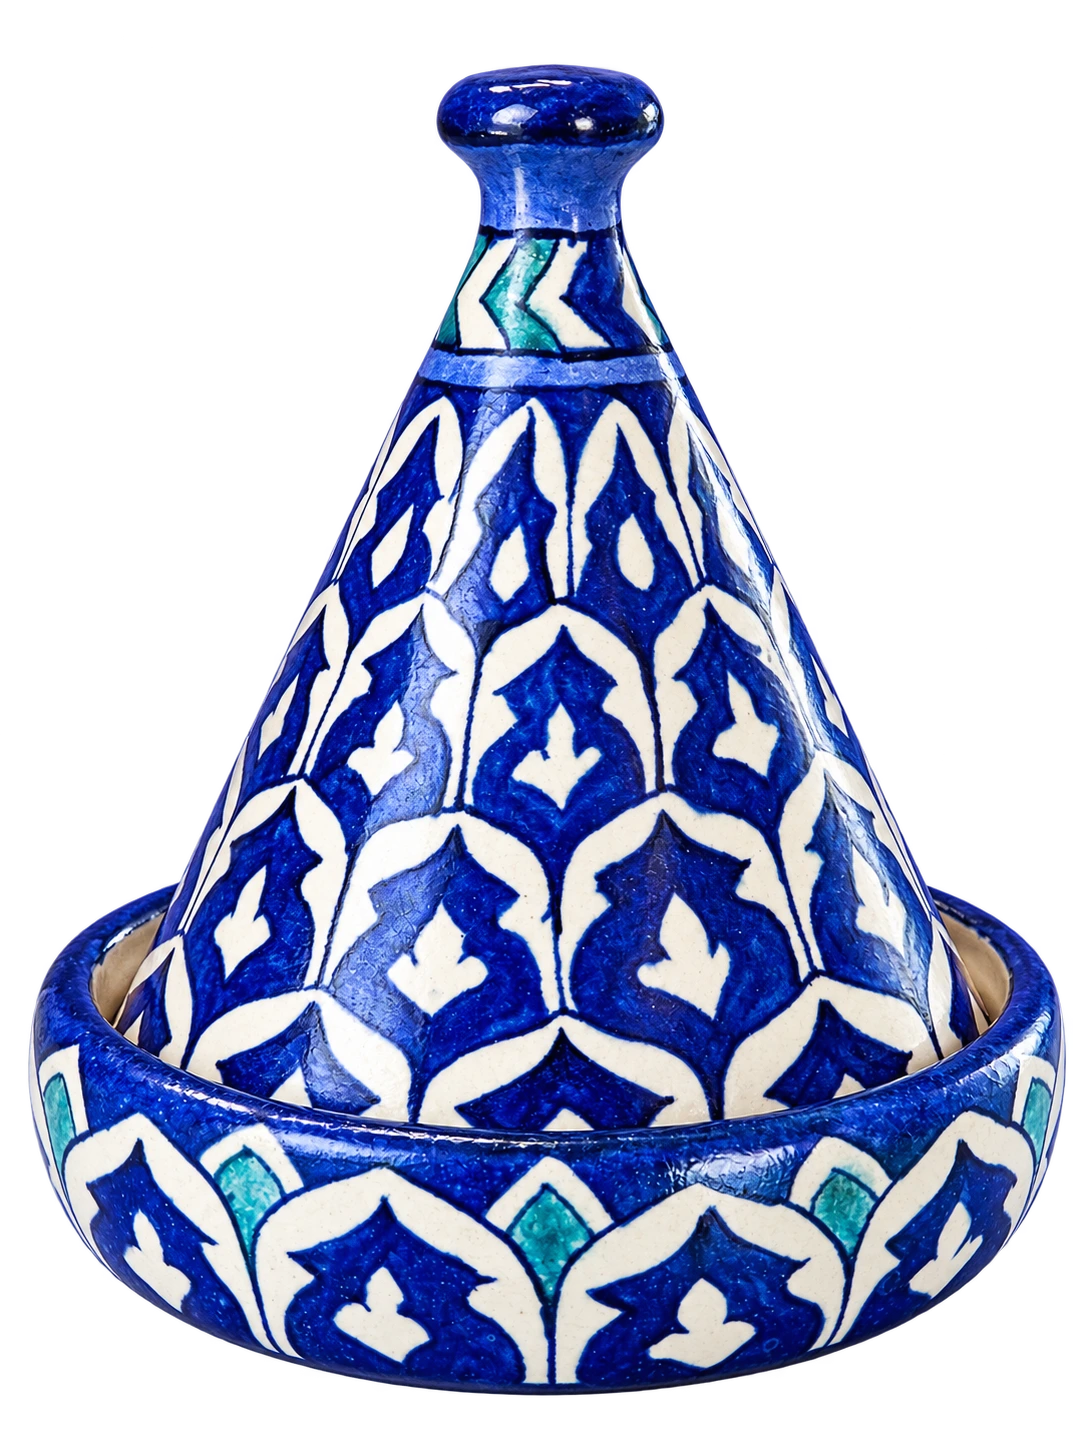
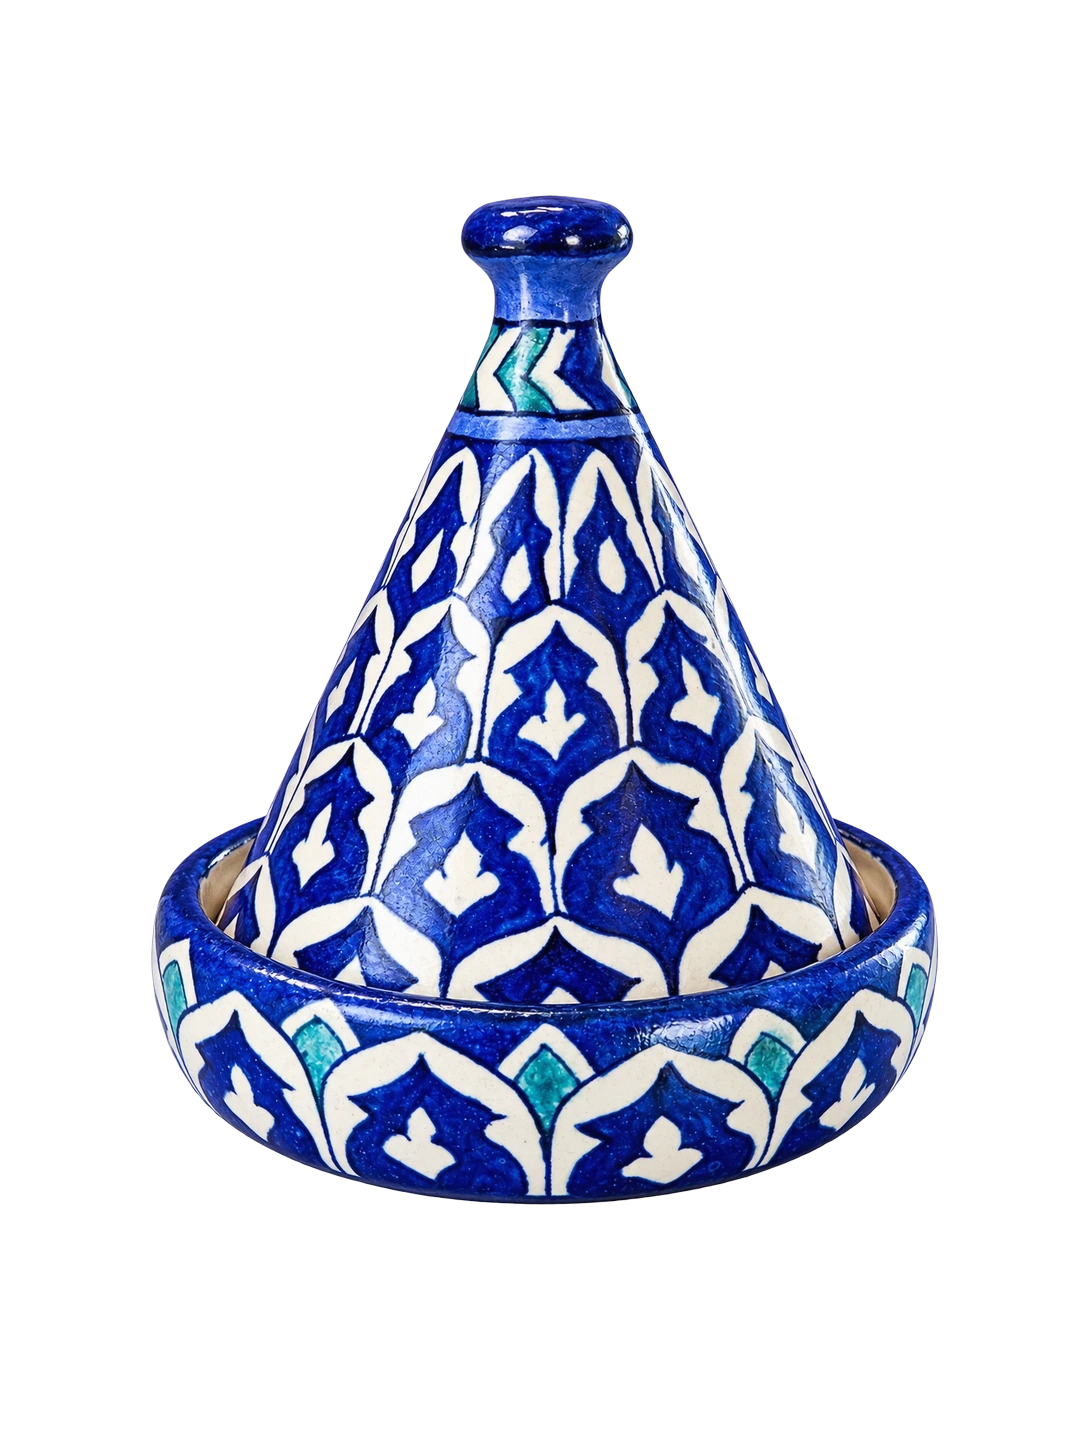
Update Dastkari Promise section and calibrate product card scaling and shadows

diff --git a/src/components/PromiseCards.tsx b/src/components/PromiseCards.tsx
@@ -1,106 +1,36 @@
-import React, { useEffect, useRef, useState } from 'react';
-import { Truck, Moon, ShieldCheck, Leaf } from 'lucide-react';
+import React from 'react';
+import { Hand, Paintbrush, Flower2, HeartHandshake } from 'lucide-react';
 
 export const PromiseCards: React.FC = () => {
-  const containerRef = useRef<HTMLDivElement>(null);
-  const [hasAnimated, setHasAnimated] = useState(false);
-
-  const [val1, setVal1] = useState(0);
-  const [val2, setVal2] = useState(0);
-  const [val3, setVal3] = useState(0);
-  const [val4, setVal4] = useState(0);
-
-  useEffect(() => {
-    const handleScroll = () => {
-      if (!containerRef.current || hasAnimated) return;
-      const rect = containerRef.current.getBoundingClientRect();
-      if (rect.top < window.innerHeight * 0.8) {
-        setHasAnimated(true);
-
-        // Animate 48h
-        let c1 = 0;
-        const t1 = setInterval(() => {
-          c1 += 2;
-          if (c1 >= 48) {
-            setVal1(48);
-            clearInterval(t1);
-          } else setVal1(c1);
-        }, 25);
-
-        // Animate 30 nights
-        let c2 = 0;
-        const t2 = setInterval(() => {
-          c2 += 1;
-          if (c2 >= 30) {
-            setVal2(30);
-            clearInterval(t2);
-          } else setVal2(c2);
-        }, 30);
-
-        // Animate 10 years
-        let c3 = 0;
-        const t3 = setInterval(() => {
-          c3 += 1;
-          if (c3 >= 10) {
-            setVal3(10);
-            clearInterval(t3);
-          } else setVal3(c3);
-        }, 50);
-
-        // Animate 100%
-        let c4 = 0;
-        const t4 = setInterval(() => {
-          c4 += 5;
-          if (c4 >= 100) {
-            setVal4(100);
-            clearInterval(t4);
-          } else setVal4(c4);
-        }, 20);
-      }
-    };
-
-    window.addEventListener('scroll', handleScroll, { passive: true });
-    handleScroll();
-    return () => window.removeEventListener('scroll', handleScroll);
-  }, [hasAnimated]);
-
   const cards = [
     {
       tint: 'var(--sky)',
-      icon: <Truck size={18} color="var(--main-ink)" />,
-      val: hasAnimated ? val1 : 48,
-      unit: 'h',
-      title: 'Dispatch',
-      desc: 'In stock pieces leave the workshop within two days.',
+      icon: <Hand size={20} color="var(--main-ink)" strokeWidth={1.8} />,
+      label: 'MADE BY HAND',
+      desc: 'One piece at a time, so no two are ever alike.',
     },
     {
       tint: 'var(--blush)',
-      icon: <Moon size={18} color="var(--main-ink)" />,
-      val: hasAnimated ? val2 : 30,
-      unit: 'nights',
-      title: 'Home trial',
-      desc: "Live with it for a month. Free returns if it isn't right.",
+      icon: <Paintbrush size={20} color="var(--main-ink)" strokeWidth={1.8} />,
+      label: 'ARTISAN-LED',
+      desc: 'Made by skilled artisans whose knowledge is passed down through generations.',
     },
     {
       tint: 'var(--butter)',
-      icon: <ShieldCheck size={18} color="var(--main-ink)" />,
-      val: hasAnimated ? val3 : 10,
-      unit: 'years',
-      title: 'Frame warranty',
-      desc: 'Every frame and joint, for a decade.',
+      icon: <Flower2 size={20} color="var(--main-ink)" strokeWidth={1.8} />,
+      label: 'CRAFT PRESERVATION',
+      desc: 'Helping keep Ajrak, Kashi Kari, hand weaving, pottery, and other living traditions alive.',
     },
     {
       tint: 'var(--sage)',
-      icon: <Leaf size={18} color="var(--main-ink)" />,
-      val: hasAnimated ? val4 : 100,
-      unit: '%',
-      title: 'Carbon-neutral',
-      desc: 'Delivery emissions offset, packaging plastic-free.',
+      icon: <HeartHandshake size={20} color="var(--main-ink)" strokeWidth={1.8} />,
+      label: 'FAIR TRADE',
+      desc: 'Supporting fair pay, sustainable livelihoods, and dignified opportunities for artisans.',
     },
   ];
 
   return (
-    <section ref={containerRef} style={{ margin: '80px 0 100px' }}>
+    <section style={{ margin: '80px 0 100px' }}>
       {/* Header */}
       <div style={{ marginBottom: '36px' }}>
         <span
@@ -110,9 +40,10 @@ export const PromiseCards: React.FC = () => {
             letterSpacing: '0.08em',
             fontSize: '11px',
             fontWeight: 600,
+            textTransform: 'uppercase',
           }}
         >
-          THE PROMISE
+          THE DASTKARI PROMISE
         </span>
         <h2
           className="font-display"
@@ -125,7 +56,7 @@ export const PromiseCards: React.FC = () => {
             marginTop: '10px',
           }}
         >
-          Buy once, keep for good
+          Made by hand, made to matter
         </h2>
       </div>
 
@@ -141,78 +72,61 @@ export const PromiseCards: React.FC = () => {
         {cards.map((c, i) => (
           <div
             key={i}
-            className="card-tile"
+            className="card-tile promise-card"
             style={{
               backgroundColor: c.tint,
-              padding: 'clamp(28px, 2.5vw, 36px)',
+              padding: 'clamp(28px, 2.4vw, 36px)',
               borderRadius: 'var(--radius-tile)',
               display: 'flex',
               flexDirection: 'column',
               justifyContent: 'space-between',
-              minHeight: '260px',
+              minHeight: '270px',
+              transition: 'transform 300ms cubic-bezier(0.2, 0.8, 0.2, 1), box-shadow 300ms ease',
+              cursor: 'default',
             }}
           >
-            {/* Small icon container at top left */}
+            {/* White icon container at top left */}
             <div
               style={{
-                width: '44px',
-                height: '44px',
+                width: '46px',
+                height: '46px',
                 borderRadius: '14px',
-                backgroundColor: 'rgba(251, 250, 247, 0.9)',
+                backgroundColor: 'rgba(251, 250, 247, 0.92)',
                 backdropFilter: 'blur(8px)',
+                WebkitBackdropFilter: 'blur(8px)',
                 display: 'flex',
                 alignItems: 'center',
                 justifyContent: 'center',
-                boxShadow: '0 2px 8px rgba(28, 27, 24, 0.06)',
-                border: '1px solid rgba(226, 221, 210, 0.6)',
+                boxShadow: '0 2px 10px rgba(28, 27, 24, 0.05)',
+                border: '1px solid rgba(226, 221, 210, 0.65)',
               }}
             >
               {c.icon}
             </div>
 
-            {/* Value, Label and Description */}
-            <div style={{ marginTop: '36px' }}>
-              <div style={{ display: 'flex', alignItems: 'baseline', gap: '4px' }}>
-                <span
-                  className="font-display"
-                  style={{
-                    fontSize: 'clamp(38px, 4.2vw, 54px)',
-                    fontWeight: 700,
-                    lineHeight: 0.95,
-                    letterSpacing: '-0.03em',
-                    color: 'var(--main-ink)',
-                  }}
-                >
-                  {c.val}
-                </span>
-                <span
-                  style={{
-                    fontSize: c.unit === '%' ? '24px' : '18px',
-                    fontWeight: 600,
-                    color: 'var(--main-ink)',
-                  }}
-                >
-                  {c.unit}
-                </span>
-              </div>
-
-              <div
+            {/* Label and Description */}
+            <div style={{ marginTop: '44px' }}>
+              <h3
+                className="font-display"
                 style={{
-                  fontSize: '15px',
-                  fontWeight: 650,
+                  fontSize: 'clamp(20px, 1.8vw, 24px)',
+                  fontWeight: 700,
+                  lineHeight: 1.15,
+                  letterSpacing: '-0.02em',
                   color: 'var(--main-ink)',
-                  marginTop: '12px',
+                  margin: 0,
                 }}
               >
-                {c.title}
-              </div>
+                {c.label}
+              </h3>
 
               <p
                 style={{
-                  fontSize: '13px',
-                  lineHeight: 1.5,
+                  fontSize: '13.5px',
+                  lineHeight: 1.55,
                   color: 'var(--secondary-ink)',
-                  marginTop: '6px',
+                  marginTop: '10px',
+                  marginBottom: 0,
                 }}
               >
                 {c.desc}
@@ -221,16 +135,22 @@ export const PromiseCards: React.FC = () => {
           </div>
         ))}
       </div>
+
       <style>{`
+        .promise-card:hover {
+          transform: translateY(-4px);
+          box-shadow: 0 12px 28px rgba(28, 27, 24, 0.08);
+        }
         @media (max-width: 960px) {
           .promise-cards-grid {
             grid-template-columns: repeat(2, minmax(0, 1fr)) !important;
             gap: var(--gap-mobile) !important;
           }
         }
-        @media (max-width: 520px) {
+        @media (max-width: 600px) {
           .promise-cards-grid {
             grid-template-columns: 1fr !important;
+            gap: 16px !important;
           }
         }
       `}</style>

diff --git a/src/components/MaterialMarquee.tsx b/src/components/MaterialMarquee.tsx
@@ -2,13 +2,13 @@ import React from 'react';
 
 export const MaterialMarquee: React.FC = () => {
   const items = [
-    'Multan Blue Pottery',
-    'Pure Sindhi Indigo Ajrak',
-    'Hand-Painted Camel Skin Lamps',
-    'Raw Folk Truck Art',
-    'Generations of Living Heritage',
-    '48-Hour Nationwide Dispatch',
-    'Direct Artisan Livelihood',
+    { text: 'Multan Blue Pottery', color: '#1E56A0' },
+    { text: 'Pure Sindhi Indigo Ajrak', color: '#9B2323' },
+    { text: 'Hand-Painted Camel Skin Lamps', color: '#C97214' },
+    { text: 'Raw Folk Truck Art', color: '#168A40' },
+    { text: 'Generations of Living Heritage', color: '#7E305C' },
+    { text: '48-Hour Nationwide Dispatch', color: '#274FB8' },
+    { text: 'Direct Artisan Livelihood', color: '#B85025' },
   ];
 
   return (
@@ -32,25 +32,27 @@ export const MaterialMarquee: React.FC = () => {
           minWidth: '100%',
         }}
       >
-        {[...items, ...items, ...items].map((text, idx) => (
+        {[...items, ...items, ...items].map((item, idx) => (
           <React.Fragment key={idx}>
             <span
               className="font-display"
               style={{
                 fontSize: 'clamp(28px, 3.4vw, 44px)',
                 fontWeight: 650,
-                color: 'var(--main-ink)',
+                color: item.color,
                 letterSpacing: '-0.03em',
+                transition: 'opacity 0.2s ease',
               }}
             >
-              {text}
+              {item.text}
             </span>
             <div
               style={{
                 width: '9px',
                 height: '9px',
                 borderRadius: '50%',
-                backgroundColor: 'var(--accent)',
+                backgroundColor: item.color,
+                opacity: 0.65,
                 flexShrink: 0,
               }}
             />

diff --git a/src/styles/components.css b/src/styles/components.css
@@ -113,27 +113,44 @@
 
 .product-floor-shadow {
   position: absolute;
-  bottom: 13%;
+  bottom: 18%;
   left: 50%;
   transform: translateX(-50%);
-  width: 58%;
-  height: 24px;
-  background: radial-gradient(ellipse at center, rgba(28, 27, 24, 0.55) 0%, rgba(28, 27, 24, 0) 70%);
-  filter: blur(8px);
-  opacity: 0.55;
+  width: 50%;
+  height: 18px;
+  background: radial-gradient(ellipse 50% 50% at center, rgba(28, 27, 24, 0.30) 0%, rgba(28, 27, 24, 0.12) 45%, rgba(28, 27, 24, 0) 75%);
+  filter: blur(5px);
   border-radius: 50%;
   transition: opacity var(--duration-long) var(--ease-shared), transform var(--duration-long) var(--ease-shared);
   pointer-events: none;
+  z-index: 1;
+}
+
+.product-panel-wrap.bg-sage .product-floor-shadow {
+  width: 46%;
+}
+
+.product-panel-wrap.bg-sky .product-floor-shadow {
+  width: 40%;
+}
+
+.product-panel-wrap.bg-sand .product-floor-shadow {
+  width: 62%;
+}
+
+.product-panel-wrap.bg-butter .product-floor-shadow {
+  width: 48%;
 }
 
 .product-cutout-img {
-  width: 78%;
-  height: 78%;
+  width: 82%;
+  height: 82%;
   object-fit: contain;
   margin: 0 auto;
   display: block;
   z-index: 2;
-  transition: transform var(--duration-long) var(--ease-shared);
+  transition: transform var(--duration-long) var(--ease-shared), filter var(--duration-long) var(--ease-shared);
+  filter: drop-shadow(0 8px 16px rgba(28, 27, 24, 0.08));
 }
 
 .product-add-btn {
